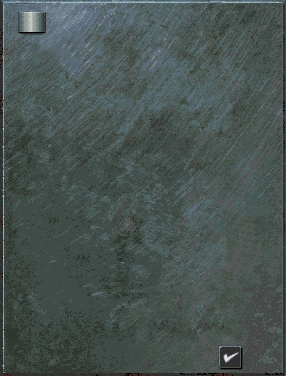
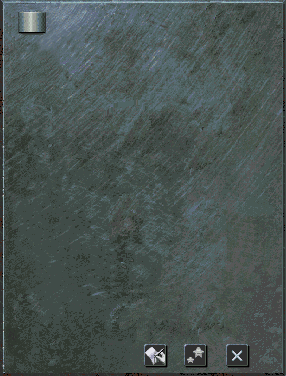
code cleanups remove destroyed units from list eq window background
git-svn-id: svn://hall.linuxconsulting.ro/websites/linuxconsulting-ro/code-repository/repository/html5-hexgrid@220 ffed5ea4-548f-4068-9d18-8ed96cdef38e

Changed region(s): [[0.7552, 0.9069, 0.8951, 0.9947], [0.6434, 0.9069, 0.7273, 0.9947], [0.5035, 0.9069, 0.5874, 0.9947]]

diff --git a/js/ui.js b/js/ui.js
@@ -28,7 +28,6 @@ function UI(scenario)
 	
 	this.mainMenuButton = function(id) { UI:mainMenuButton(id); } //Hack to bring up the mainmenu //TODO remove this
 
-//TODO break up this mess
 function handleMouseClick(e) 
 {
 	var hex;
@@ -39,43 +38,35 @@ function handleMouseClick(e)
 	
 	hex = map.map[row][col];
 	
+	//Right click only to show unit info
+	if (minfo.rclick) 
+	{ 
+		if (hex.unit) updateUnitInfoWindow(hex.unit);
+		return true;
+	}
+	
 	//Clicked hex has a unit ?
 	if (hex.unit) 
 	{
 		if ((map.currentHex.hex !== null) && (hex.isAttackSel))
-		{	//attack an allowed hex
+		{	//attack an allowed hex unit
 			var atkunit = map.currentHex.hex.unit;
-			var defunit = hex.unit;
 			if (!atkunit.hasFired)
 			{
-				//attack function
-				console.log("attacking: " + row + "," +col);
-				atkunit.fire();
-				//TODO defunit should use ammo when defending
-				var cr = GameRules.calculateAttackResults(atkunit, map.currentHex.row, map.currentHex.col, defunit, row, col);
-				//TODO do this better
-				defunit.hit(cr.kills)
-				r.drawAnimation(row, col);
-				atkunit.hit(cr.losses);
-				if(atkunit.destroyed) map.currentHex.hex.delUnit();
-				if (defunit.destroyed) hex.delUnit();
-				map.delAttackSel();
+				r.drawAnimation(row, col);		
+				map.attackUnit(atkunit, map.currentHex.row, map.currentHex.col, hex.unit, row, col);
 			}
 		}	
 		else //Select the new unit
 		{
-			map.delCurrentHex();
-			map.setCurrentHex(row, col);
-			map.delMoveSel();
-			map.delAttackSel();
-			
-			if (!hex.unit.hasMoved) 
-				map.setMoveRange(row, col); 
-			
-			if (!hex.unit.hasFired) 
-				map.setAttackRange(row, col); 
+			map.selectUnit(row, col);
 		}
-		if (minfo.rclick) { updateUnitInfoWindow(hex.unit);}
+		/*
+		var c  = parseInt(map.getPlayer(hex.unit.owner).country);
+		$('eqSelCountry').country = c + 1;
+		//TODO make unitList show strength/movement/attack status and update it on all actions
+		updateEquipmentWindow(hex.unit.unitData.class); 
+		*/
 	}	
 	else
 	{
@@ -86,22 +77,11 @@ function handleMouseClick(e)
 			//move to an allowed hex
 			if (hex.isMoveSel && !srcHex.unit.hasMoved) 
 			{
-				//TODO a move function in map class	
-				var player = map.getPlayer(srcHex.unit.owner)
-				var side = player.side;	
-				//Is a victory marked hex ?
-				if (hex.victorySide !== -1)
-				{
-					var enemyside = map.getPlayer(hex.owner).side;
-					var win = map.updateVictorySides(side, enemyside);
-					if (win) { UI:uiMessage("Victory","Side " + sidesName[side] + " wins by capturing all victory hexes"); }
+				var win = map.moveUnit(srcHex.unit, map.currentHex.row, map.currentHex.col, row, col);
+				if (win >= 0) 
+				{ 
+					UI:uiMessage("Victory","Side " + sidesName[win] + " wins by capturing all victory hexes"); 
 				}
-				srcHex.unit.move(1); //TODO proper GameRules.distance
-				if (hex.flag !== -1) { hex.flag = player.country; }
-				hex.unit = srcHex.unit;
-				hex.owner = srcHex.unit.owner;
-				srcHex.delUnit();
-				map.setAttackRange(row, col) //Put new attack range
 			} 		
 			map.delCurrentHex();
 		}
@@ -236,7 +216,7 @@ function mainMenuButton(id)
 		}	
 		case 'mainmenu':
 		{
-			uiMessage("HTML5 Panzer General version 1.0", "Copyright 2012 Nicu Pavel <br> " +
+			uiMessage("HTML5 Panzer General version 1.1", "Copyright 2012 Nicu Pavel <br> " +
 			"npavel@linuxconsulting.ro <br><br> Available scenarios:<br>");
 			
 			var scnSel = addTag('message', 'select');
@@ -368,6 +348,7 @@ function updateEquipmentWindow(eqclass)
 	
 	//The current selected coutry in the div
 	var country = $('eqSelCountry').country;
+	console.log("Country: " + country);
 	//The actual units on the map
 	var unitList = map.getUnits();
 	for (var i = 0; i < unitList.length; i++)
@@ -390,6 +371,10 @@ function updateEquipmentWindow(eqclass)
 				}
 		}
 	}
+	
+	//Don't change the listing on dummy class
+	if (eqclass == 0) return;
+	
 	//Units in equipment
 	for (var i in equipment)
 	{

diff --git a/js/map.js b/js/map.js
@@ -113,14 +113,27 @@ function Map()
 			}
 		}
 	}
-	//TODO also check for destroyed and remove it from list
+	//Checks for destroyed units and remove them from list
+	this.updateUnitList = function()
+	{
+		for (var i = 0; i < unitList.length; i++)
+		{
+			if (unitList[i] !== null && unitList[i].destroyed) 
+				unitList.splice(i, 1);
+		}
+	}
+	
+	//Resets hasFired, hasMoved, hasRessuplied 
+	//TODO this should be a End Turn function
 	this.resetUnits = function()
 	{
 		for (var i = 0; i < unitList.length; i++)
 		{
-			if (unitList[i] !== null) unitList[i].resetUnit();
+			if (unitList[i] !== null) 
+				unitList[i].resetUnit();
 		}
 	}
+	
 	this.addUnit = function(unit) {	unitList.push(unit); }
 	this.getUnits = function() { return unitList; }
 	this.addPlayer = function(player) {	playerList.push(player); }
@@ -211,7 +224,7 @@ function Map()
 		}
 	}
 	
-	this.setAttackRange = function(row,col)
+	this.setAttackRange = function(row, col)
 	{
 		this.delAttackSel();
 		var allowedCells = GameRules.getAttackRange(this.map, row, col, this.rows, this.cols);
@@ -221,7 +234,71 @@ function Map()
 			this.setAttackSel(cell.row, cell.col);
 		}
 	}
-
+	
+	//atkunit from srow, scol attacks defunit from drow, dcol
+	this.attackUnit = function(atkunit, srow, scol, defunit, drow, dcol)
+	{
+		console.log("attacking: " + drow + "," +dcol);
+		//TODO defunit should use ammo when defending
+		atkunit.fire();
+		var cr = GameRules.calculateAttackResults(atkunit, srow, scol, defunit, drow, dcol);
+		//TODO do this better
+		defunit.hit(cr.kills)
+		atkunit.hit(cr.losses);
+		if (atkunit.destroyed) 
+			this.map[srow][scol].delUnit();
+			
+		if (defunit.destroyed) 
+			this.map[drow][dcol].delUnit();
+			
+		this.updateUnitList();
+		this.delAttackSel();
+	
+	}
+	
+	// moves a unit to a new hex returns side number if the move results in a win 
+	// -1 otherwise
+	this.moveUnit = function(unit, srow, scol, drow, dcol)
+	{
+		var srcHex = this.map[srow][scol];
+		var dstHex = this.map[drow][dcol];
+		var player = this.getPlayer(srcHex.unit.owner)
+		var side = player.side;	
+		var win = -1;
+		if (dstHex.flag !== -1) { dstHex.flag = player.country; }
+		
+		//Is a victory marked hex ?
+		if (dstHex.victorySide !== -1)
+		{
+			var enemyside = this.getPlayer(dstHex.owner).side;
+			if (this.updateVictorySides(side, enemyside))
+				win = side;
+		}
+		unit.move(1); //TODO proper GameRules.distance
+		dstHex.setUnit(unit);
+		dstHex.owner = unit.owner;
+		srcHex.delUnit();
+		this.setAttackRange(drow, dcol) //Put new attack range
+		
+		return win;
+	}
+	
+	// selects a new unit as the current unit
+	this.selectUnit = function(row, col)
+	{
+		var hex = this.map[row][col];
+		
+		this.delCurrentHex();
+		this.setCurrentHex(row, col);
+		this.delMoveSel();
+		this.delAttackSel();
+		
+		if (!hex.unit.hasMoved) 
+			this.setMoveRange(row, col); 
+		if (!hex.unit.hasFired) 
+			this.setAttackRange(row, col); 
+	}	
+	
 	this.dumpMap = function()
 	{
 		/*

diff --git a/css/ui-equipment.css b/css/ui-equipment.css
@@ -22,7 +22,7 @@
 #eqUnitList
 {
 	border: 0px solid #fff;
-	/*Win 7 bug: specifying the position here leaves the scrolling bars on screen when div is hidden */
+	/*Win 7 Chrome bug: specifying the position here leaves the scrolling bars on screen when div is hidden */
 	/*
 	position: absolute;
 	height: 320px;
@@ -30,9 +30,9 @@
 	top: 24px;
 	left: 30px;
 	*/
-	height: 320px;
+	height: 321px;
 	width:240px;
-	margin-top: 25px;
+	margin-top: 22px;
 	margin-left: 40px;
 	padding-left: 0px;
 	float: left;
@@ -76,7 +76,27 @@
 	width: 30px;
 	height: 30px;
 	top: 343px;
-	left: 215px;
+	left: 220px;
+}
+
+#eqUpgradeBut
+{
+	border: 0px solid #fff;
+	position:absolute;
+	width: 30px;
+	height: 30px;
+	top: 343px;
+	left: 180px;
+}
+
+#eqNewBut
+{
+	border: 0px solid #fff;
+	position:absolute;
+	width: 30px;
+	height: 30px;
+	top: 343px;
+	left: 140px;
 }
 
 #container-unitlist
@@ -97,7 +117,7 @@
 
 #hscroll-unitlist
 {
-	width:760px;
+	width:790px;
 	margin:0 auto;
 	overflow: auto;
 }
@@ -107,7 +127,7 @@
 	float:left;
 	padding-left: 5px;
 	background: rgba(0,0,0,0.6);
-	margin-right: -9000px;
+	margin-right: -20000px;
 }
 
 .eqUnitBox
@@ -137,7 +157,7 @@
 	clip:rect(0px, 320px, 50px, 240px);
 }
 
-.eqUnitBox img
+.eqUnitBox img /* other images like currency coin */
 {
 	vertical-align:middle;
 }

diff --git a/panzer.html b/panzer.html
@@ -55,6 +55,8 @@
 		<div id="eqSelClass"></div>
 		<div id="eqUnitList"></div>
 		<div id="eqOkBut"></div>
+		<div id="eqUpgradeBut"></div>
+		<div id="eqNewBut"></div>
 	</div>
   </body>
 </html>
